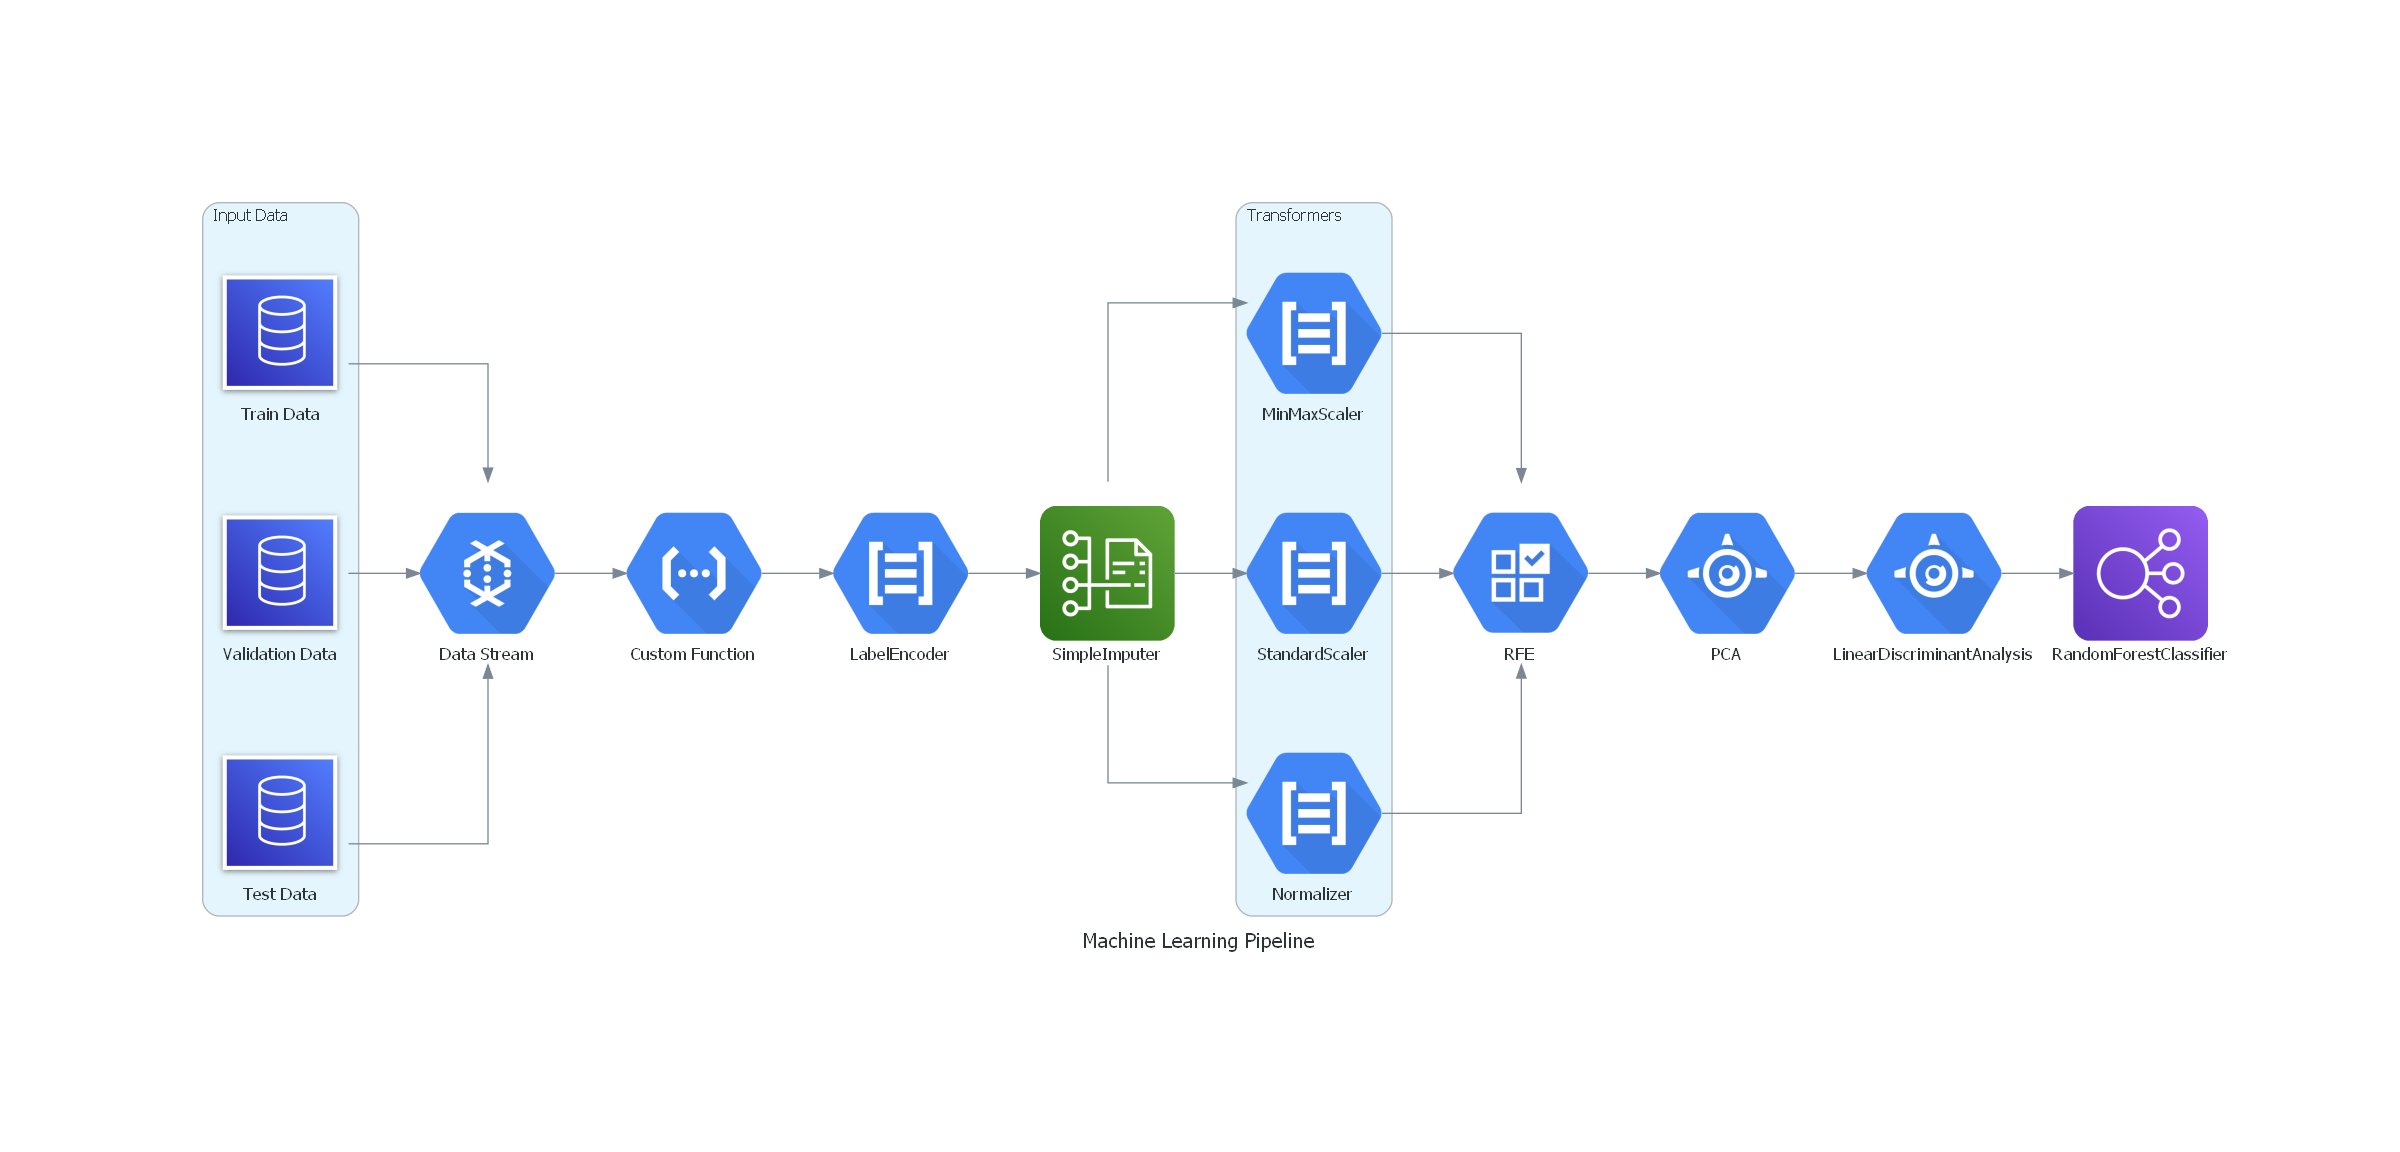
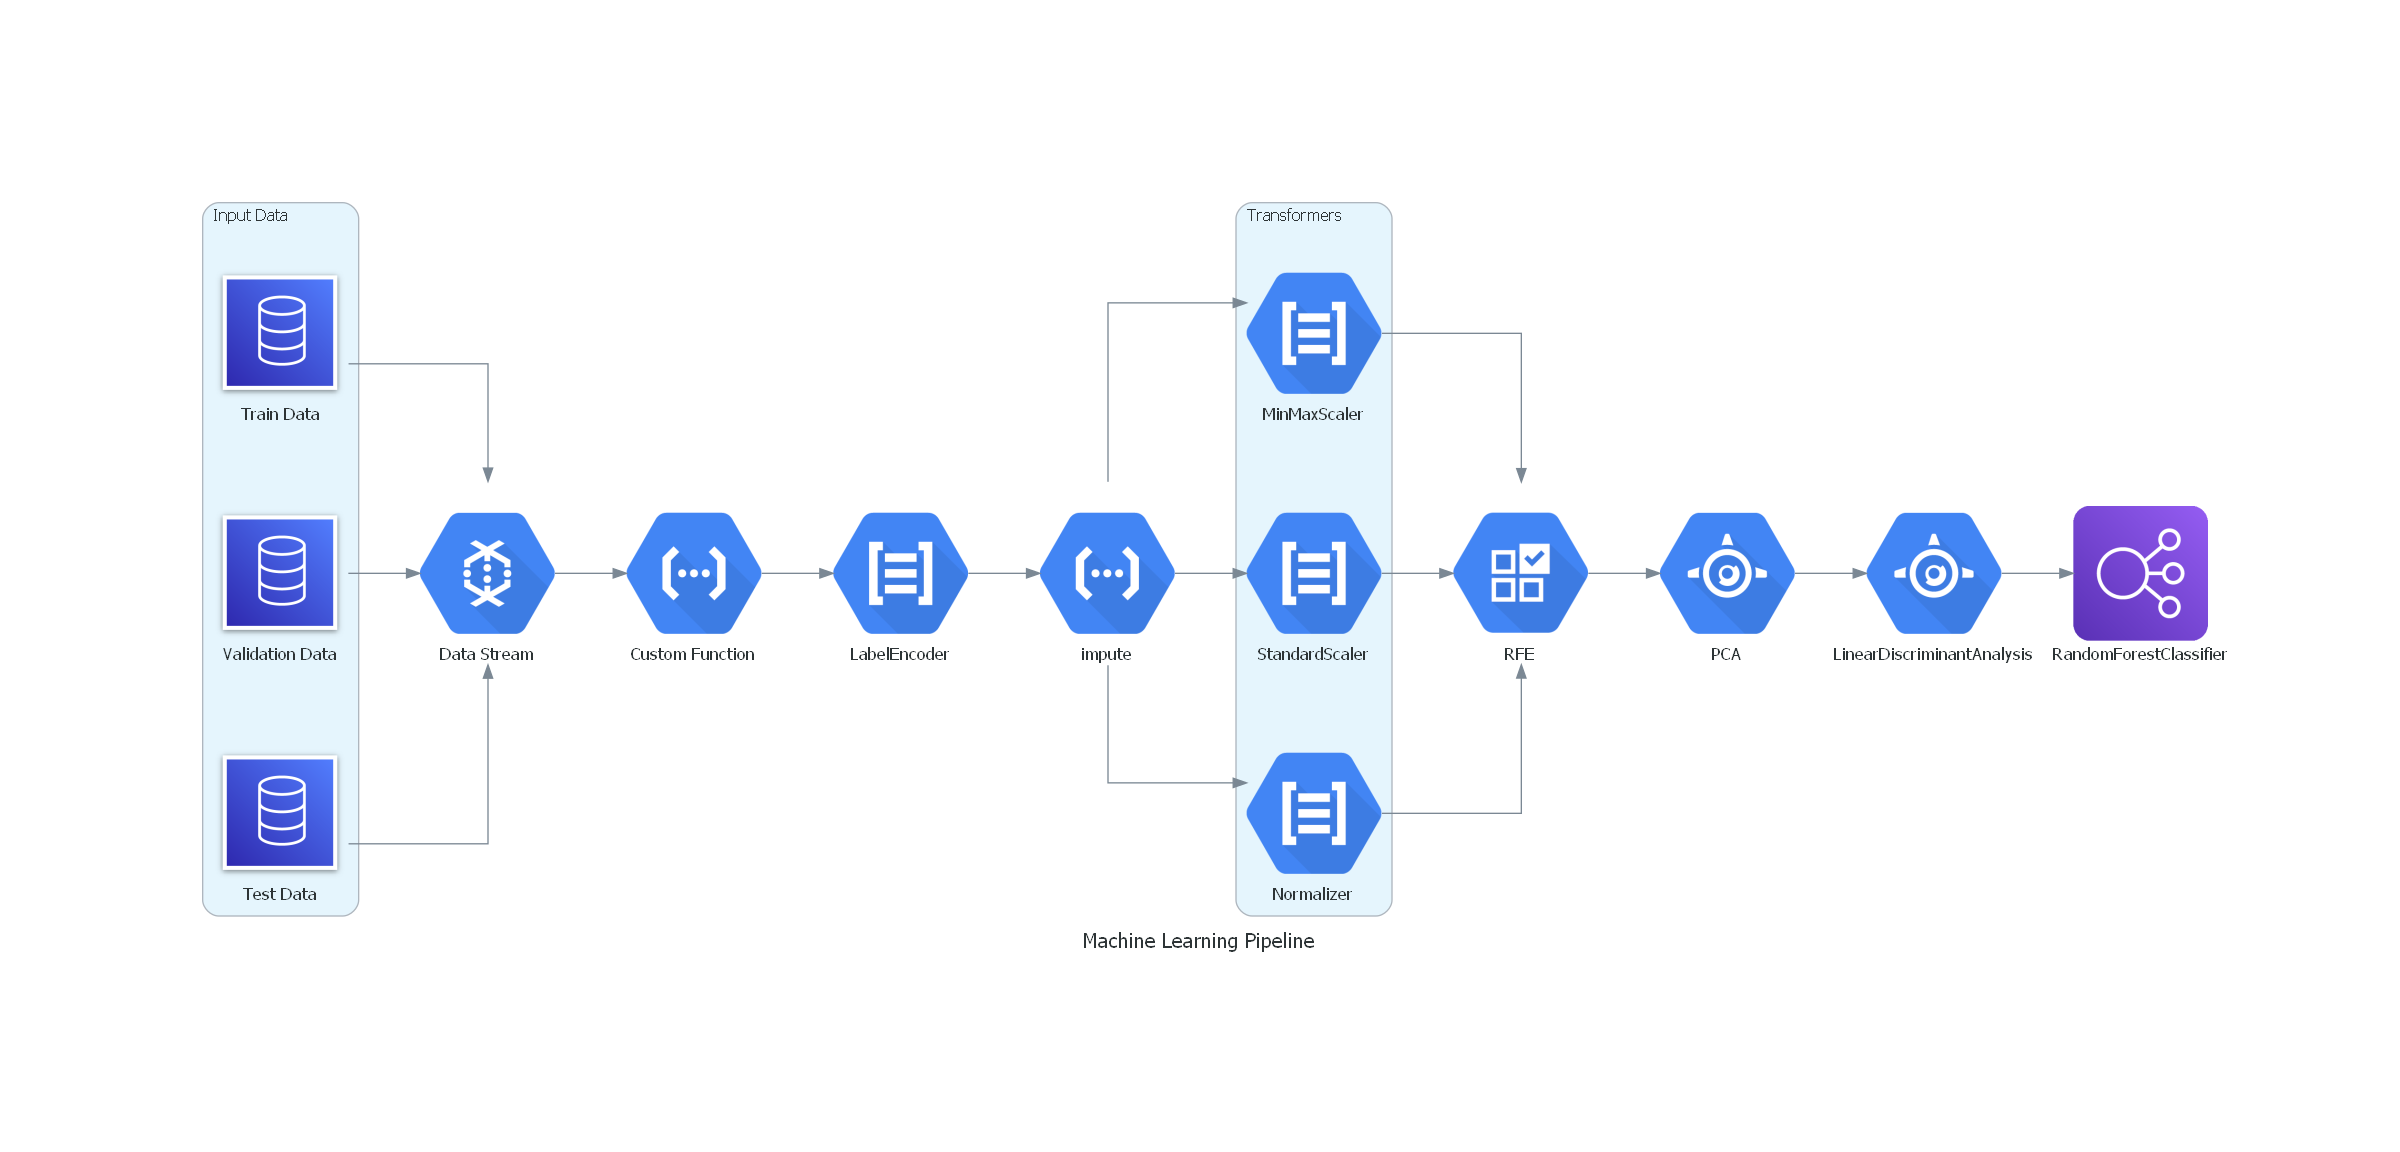
Updated the diagram imports

Changed region(s): [[0.4062, 0.4375, 0.5, 0.5938]]

diff --git a/mlpipeline_analyzer/visualizer/PipelineNode.py b/mlpipeline_analyzer/visualizer/PipelineNode.py
@@ -1,7 +1,7 @@
 from diagrams.aws.cost import CostAndUsageReport
 from diagrams.aws.network import ELB
 from diagrams.gcp.compute import Functions, AppEngine
-from diagrams.gcp.ml import RecommendationsAI, NaturalLanguageAPI, JobsAPI, InterfaceAPI
+from diagrams.gcp.ml import RecommendationsAI, NaturalLanguageAPI, JobsAPI, InferenceAPI
 from diagrams.aws.database import Database
 from diagrams.gcp.analytics import BigQuery, Dataflow, PubSub
 from diagrams.gcp.database import BigTable
@@ -34,7 +34,7 @@ class PipelineNode:
                            'naive_bayes','neighbors', 'neural_network', 'semi_supervised', 'svm', 'tree', 'gradient_boosting', 'xgboost'):
             return ELB(self.name)
         elif self.node in ('model_selection'):
-            return InterfaceAPI(self.name)
+            return InferenceAPI(self.name)
         elif self.node in ('Impute'):
             return CostAndUsageReport(self.name)
         elif self.node in ('inspection', 'metrics'):
